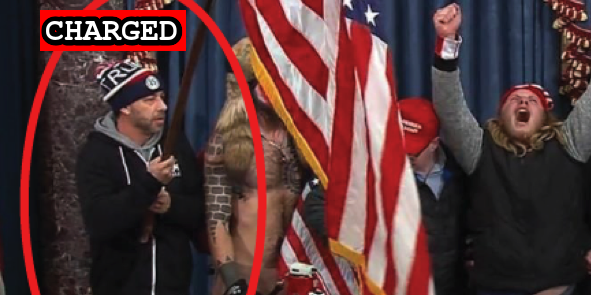
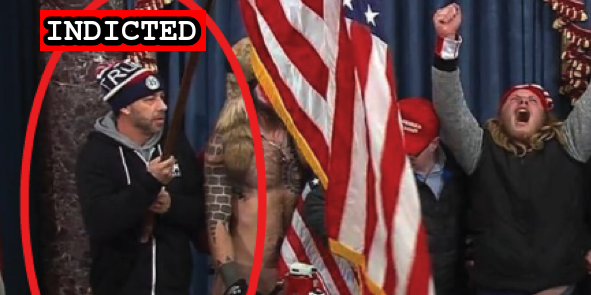
Indictments

Changed region(s): [[0.0609, 0.0305, 0.3655, 0.1831]]

diff --git a/docs/_suspects/cody-connell.md b/docs/_suspects/cody-connell.md
@@ -3,10 +3,10 @@ name: Cody Connell
 lastName: Connell
 aka:
 residence: Louisiana
-status: Charged
+status: Indicted
 date: 2021-01-16
 charged: 2021-01-16
-indicted:
+indicted: 2021-02-05
 age: 27
 occupation:
 affiliations:
@@ -18,7 +18,7 @@ courtroom:
 courthouse:
 raid:
 perpwalk:
-quote: "We pushed the cops against the wall, they dropped all their gear and left"
+quote: 'We pushed the cops against the wall, they dropped all their gear and left'
 title: Cody Connell charged on January 16, 2021
 description: Click for latest case details. Suspects considered innocent until proven guilty.
 author: seditiontrack
@@ -26,6 +26,8 @@ layout: suspect
 published: true
 charges:
 ---
+
 - [News Report](https://www.knoe.com/2021/01/17/la-man-and-cousin-arrested-following-capitol-riot/)
 - [Statement of Facts](https://www.justice.gov/opa/page/file/1355876/download)
 - [Complaint](https://www.justice.gov/opa/page/file/1355881/download)
+- [Indictment](https://www.justice.gov/usao-dc/case-multi-defendant/file/1366036/download)

diff --git a/docs/_suspects/tommy-allan.md b/docs/_suspects/tommy-allan.md
@@ -3,10 +3,10 @@ name: Tommy Allan
 lastName: Allan
 aka:
 residence: California
-status: Charged
+status: Indicted
 date: 2021-01-22
 charged: 2021-01-22
-indicted:
+indicted: 2021-02-02
 age: 52
 occupation: Real Estate (Former)
 affiliations:
@@ -18,7 +18,7 @@ courtroom:
 courthouse:
 raid:
 perpwalk:
-quote: "Here [sic] my Roar you fucking communist bastards. Give me freedom or give me death."
+quote: 'Here [sic] my Roar you fucking communist bastards. Give me freedom or give me death.'
 title: Tommy Allan charged on January 25, 2021
 description: Click for latest case details. Suspects innocent until proven guilty.
 author: seditiontrack
@@ -26,6 +26,8 @@ layout: suspect
 published: true
 charges:
 ---
+
 - [News Report](https://www.sacbee.com/news/local/article248703410.html)
 - [Complaint](https://www.justice.gov/file/1360801/download)
 - [Statement of Facts](https://www.justice.gov/file/1360801/download)
+- [Indictment](https://www.justice.gov/usao-dc/case-multi-defendant/file/1366031/download)

diff --git a/docs/_suspects/daniel-adams.md b/docs/_suspects/daniel-adams.md
@@ -3,10 +3,10 @@ name: Daniel Adams
 lastName: Adams
 aka:
 residence: Texas
-status: Charged
+status: Indicted
 date: 2021-01-16
 charged: 2021-01-16
-indicted:
+indicted: 2021-02-05
 age:
 occupation:
 affiliations:
@@ -18,7 +18,7 @@ courtroom:
 courthouse:
 raid:
 perpwalk:
-quote: "Let’s go. Are you ready to push?"
+quote: 'Let’s go. Are you ready to push?'
 title: Daniel Adams charged on January 16, 2021
 description: Click for latest case details. Suspects considered innocent until proven guilty.
 author: seditiontrack
@@ -26,6 +26,8 @@ layout: suspect
 published: true
 charges:
 ---
+
 - [News Report](https://www.knoe.com/2021/01/17/la-man-and-cousin-arrested-following-capitol-riot/)
 - [Statement of Facts](https://www.justice.gov/opa/page/file/1355876/download)
 - [Complaint](https://www.justice.gov/opa/page/file/1355881/download)
+- [Indictment](https://www.justice.gov/usao-dc/case-multi-defendant/file/1366036/download)
